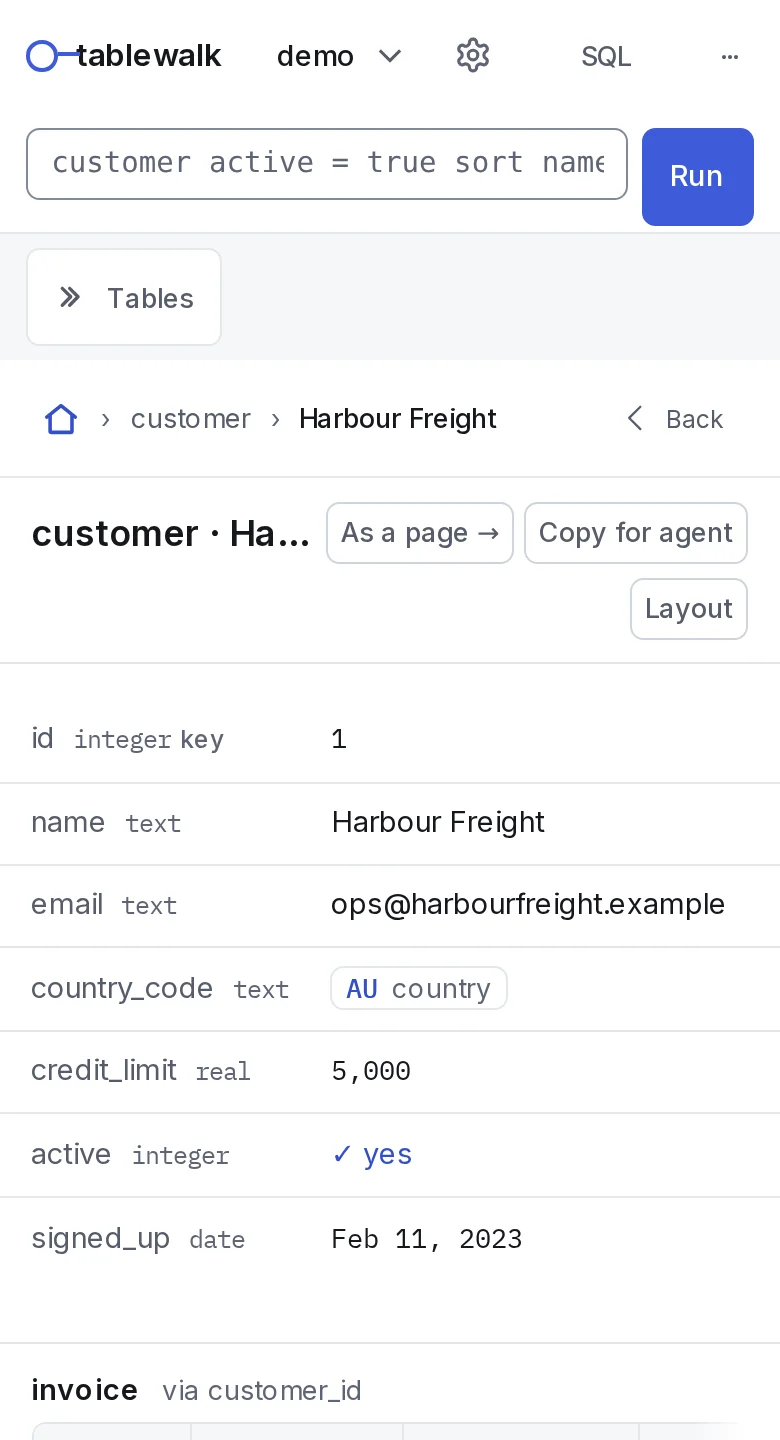
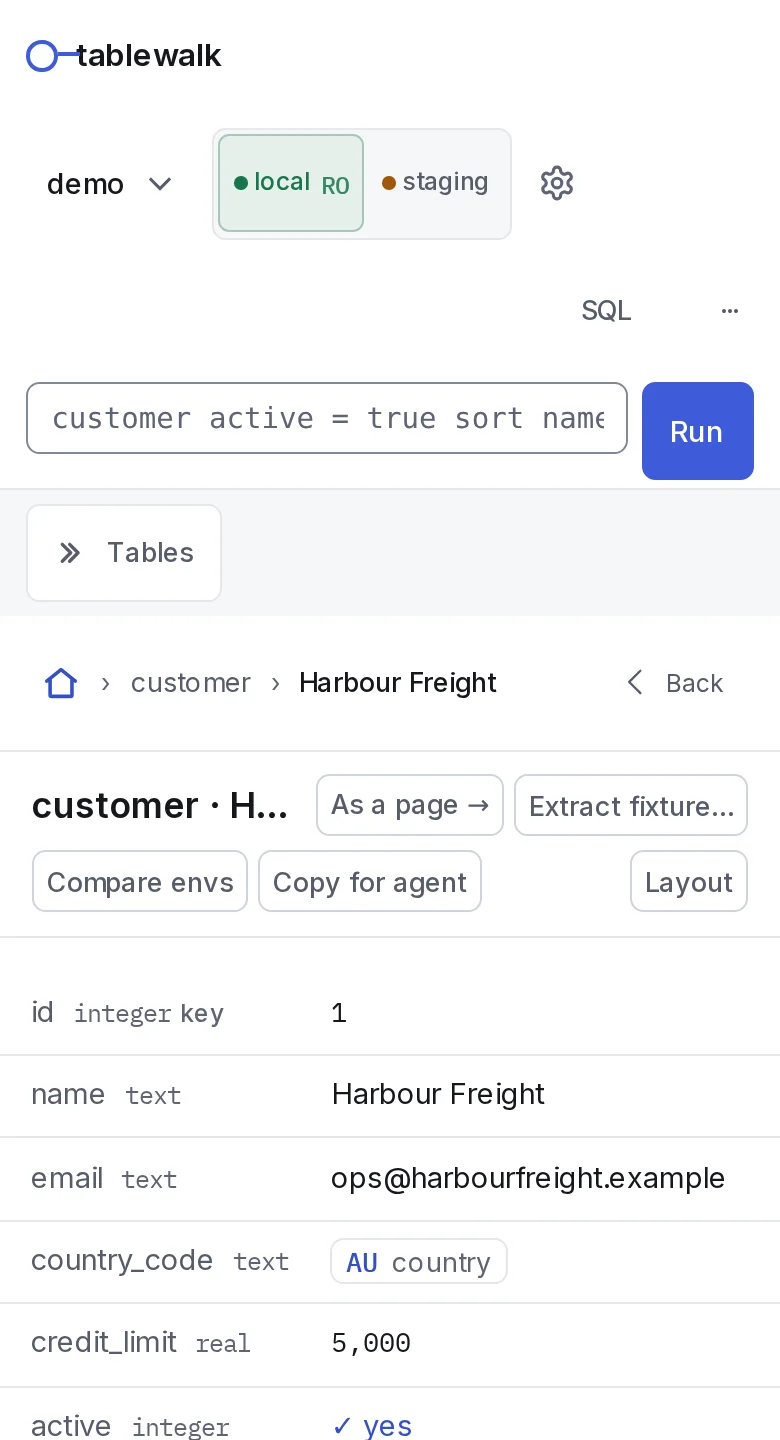
docs(site): add look screenshots and refresh hero record shots (#20)

diff --git a/site/src/styles/custom.css b/site/src/styles/custom.css
@@ -290,6 +290,13 @@ site-search button[data-open-modal] { border-radius: 8px; border-color: var(--sl
 /* Screenshots: full column width, a quiet frame. */
 .sl-markdown-content img { max-width: 100%; height: auto; border: 1px solid var(--sl-color-hairline); border-radius: 6px; }
 
+/* A 2x2 gallery of looks: each still wrapped by lightbox.ts for full-screen zoom. */
+.tw-look-grid { display: grid; gap: 1rem; margin-block: 1.25rem; }
+.tw-look-grid figure { margin: 0; display: grid; gap: 0.4rem; }
+.tw-look-grid figcaption { margin: 0; font-size: var(--sl-text-xs); color: var(--sl-color-gray-3); line-height: 1.45; }
+.tw-look-grid figcaption strong { color: var(--sl-color-white); font-weight: 600; }
+@media (min-width: 44rem) { .tw-look-grid { grid-template-columns: 1fr 1fr; } }
+
 /* Search sits with the GitHub and theme controls at the right. */
 @media (min-width: 50rem) {
   .header > div:nth-child(2) { justify-content: flex-end; }

diff --git a/site/src/content/docs/docs/browsing.md b/site/src/content/docs/docs/browsing.md
@@ -5,7 +5,7 @@ description: Tables, records and the walk between them. Every foreign key is a l
 
 In tablewalk a foreign key is a place you can go: from an invoice to its customer, and from the customer back to all of its invoices.
 
-![A customer record: its fields, its invoices listed under them, and a Related rail counting every table that points at it](/shots/record.webp?v=3)
+![A customer record: its fields, its invoices listed under them, and a Related rail counting every table that points at it](/shots/record.webp?v=5)
 
 ## A table
 
@@ -77,6 +77,25 @@ A composite key names each part: `/demo/invoice_line/~invoice_id=1001,line_no=2`
 - **Broadsheet** (`?look=broadsheet`) — warm newsprint (or mahogany inkwell in dark mode), editorial serif masthead and headings, double masthead rules, dotted record leaders, and borderless horizontal tables.
 - **Obsidian** (`?look=obsidian`) — frameless matte shell with a floating rounded workspace island, elevated pill tabs, micro-bevel keycaps, and capsule foreign-key badges.
 - **Folio** (`?look=folio`), **Blueprint** (`?look=blueprint`) and **Console** (`?look=console`) — typeset book tables, architectural whiteprint/cyanotype drawings, and green-bar printout / phosphor CRT output, alongside eight shared Mistri themes with twelve selectable palettes each.
+
+<div class="tw-look-grid">
+  <figure>
+    <img src="/shots/look-braun.webp?v=5" alt="Braun look: anodized aluminum topbar and sidebar, recessed dark digital LCD query and SQL readouts, and an International Orange RUN key" width="1280" height="800" loading="lazy" />
+    <figcaption><strong>Braun</strong> — anodized aluminum housing, recessed LCD query and SQL wells, tactile 3D push-buttons.</figcaption>
+  </figure>
+  <figure>
+    <img src="/shots/look-broadsheet.webp?v=5" alt="Broadsheet look: warm newsprint, editorial serif masthead and headings, double masthead rules, and dotted record leaders" width="1280" height="800" loading="lazy" />
+    <figcaption><strong>Broadsheet</strong> — warm newsprint, editorial serif masthead and headings, dotted record leaders.</figcaption>
+  </figure>
+  <figure>
+    <img src="/shots/look-obsidian.webp?v=5" alt="Obsidian look in dark mode: frameless matte shell with a floating rounded workspace island, elevated pill tabs, and micro-bevel keycaps" width="1280" height="800" loading="lazy" />
+    <figcaption><strong>Obsidian</strong> — floating rounded workspace island, elevated pill tabs, micro-bevel keycaps.</figcaption>
+  </figure>
+  <figure>
+    <img src="/shots/look-blueprint.webp?v=5" alt="Blueprint look: ruled drafting paper and a Prussian-blue architectural entity diagram" width="1280" height="800" loading="lazy" />
+    <figcaption><strong>Blueprint</strong> — drafting whiteprint and a Prussian-blue architectural schema sheet.</figcaption>
+  </figure>
+</div>
 
 ## Good to know
 
